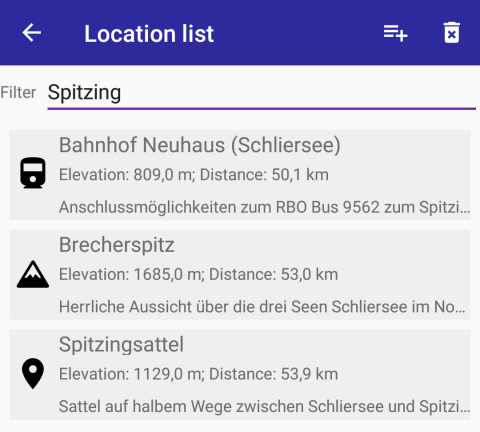
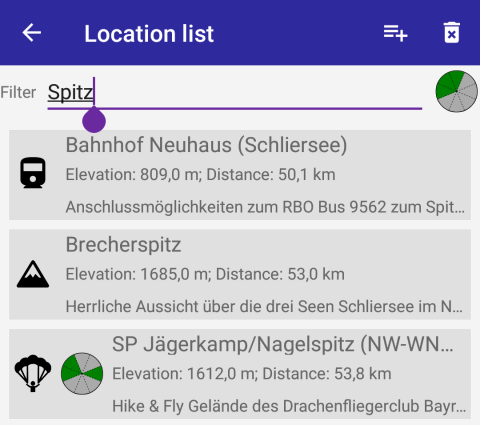
updated manual for version 1.8.0

diff --git a/src/App/Resources/Assets/info/manual.md b/src/App/Resources/Assets/info/manual.md
@@ -9,16 +9,19 @@ Welcome to the manual page for the Where-to-fly app!
 The 3D map lets you see the terrain profile of the world in a map that can
 display different imagery layers (in this case OpenStreetMap). The map is
 shaded according to the sun's current position. The map can be moved around
-using touch controls.
+using touch controls:
 
 ![Map touch controls](images/map-touch-controls.png)
 
 Locations and tracks can be imported and are displayed on the map. Locations
 can be tapped to show more infos about a pin. Additional custom layers can be
 added that can display other geometric objects, such as thermals, national
-park areas, air spaces or labels.
+park areas, air spaces or labels. Here you can see the details of a summit
+location:
 
 ![Location info](images/location-info.png)
+
+Depending on the map element, different option icons are displayed.
 
 ### Title bar icons
 
@@ -28,9 +31,9 @@ your position with other apps.
 
 The ![Find](images/magnify.svg) button shows a dialog to find a specific
 place, e.g. a mountain or town name. The result is shown with an orange pin.
-From the pin info, you can add a new location pin for the find result.
+From the pin info, you can add a new location pin from the find result.
 
-### Other functions
+### Other map functions
 
 A long tap on the map shows the following menu:
 
@@ -44,7 +47,7 @@ A long tap on the map shows the following menu:
 
 ![Flying range parameters](images/flying-range-menu.png)
 
-- Glide ratio: Determines how fast you sink; glide ratio is given in km
+- Glide ratio: Determines how fast you sink; the glide ratio is given in km
   gliding per 1000m sinking.
 
 A half-transparent blue cone appears on the selected point, showing the areas
@@ -58,13 +61,25 @@ currently loaded custom layers.
 
 ![Layers list](images/layers-list.png)
 
-New layers can be imported with the ![Add layers](images/layers-plus.svg)
-button. A file picker is opened to select a file on the device. Allowed file
-types are CZML. The format is a custom JSON based format from the Cesium
-project.
+The layers list always shows the two default layers "Locations" and "Tracks",
+and additionally all loaded layers. Layers can be set invisible with the
+![set invisible](images/eye-off-outline.svg) icon.
 
-The ![Delete all](images/delete-forever.svg) button removes all
-layers.
+New layers can be imported with the ![Add layers](images/layers-plus.svg)
+button. A menu is shown to select which kind of layer to import:
+
+- Import CZML Layer: Lets you import .czml files in the Cesium JSON format
+- Import OpenAir airspaces: Lets you import airspaces in the OpenAir text
+  format.
+- Download from web: Lets you download files to import from the web.
+
+When selecting the first two items, a file picker is opened to select a file
+on the device. Allowed file types are CZML and OpenAir text files. The CZML
+format is a custom JSON based format from the Cesium project.
+
+The ![Delete all](images/delete-forever.svg) button removes all layers
+(except the two default layers "Locations" and "Tracks", which can't be
+removed).
 
 When long-tapping a single layer entry, a context menu appears with the
 following menu entries:
@@ -79,6 +94,14 @@ following menu entries:
 The location list shows all locations. The list can be filtered using the
 entry line. When no location is imported yet, a message is shown. Tapping on
 an entry shows the details of that location (see below).
+
+To the right of the filter entry line is the takeoff directions selection
+icon. Tapping the icon opens a pop-up dialog that lets you select takeoff
+directions that should be used to filter the location list entries. Note that
+the app tries to recognize the start directions from the location title or
+description text.
+
+![Takeoff directions filter](images/takeoff-directions.png)
 
 The ![Add locations](images/playlist-plus.svg) button adds new
 locations to the list. First, a selection dialog is shown:
@@ -125,12 +148,12 @@ The following title bar icons are available:
 
 ### Live waypoints
 
-Some locations can be updated live, e.g. for lve tracking purposes. The
+Some locations can be updated live, e.g. for live tracking purposes. The
 locations are imported by clicking on weblinks that start with
 `where-to-fly://`. The position and other infos of those live waypoints
 are updated periodically while the app is running. The live waypoint data is
 queried from the Where-to-fly background service. Sources for live waypoints
-currently are Garmin inReach devices or Find me Spot tracker.
+currently are Garmin inReach devices or Find me Spot tracker devices.
 
 ## ![Tracks](../icons/map-marker-distance.svg) Tracks
 
@@ -152,10 +175,15 @@ You can edit the track name and determine if the track is a paragliding
 flight. Flight tracks are colored based on climb or sink rates. If it's not a
 flight, you can select a single color for the track line.
 
+![Open track](images/track-open-dialog-flight.png)
+
 In the rare case that the track has no time points (e.g. for KML LineStrings)
 another field "Track point time interval" appears that lets you specify the
 time delta between the track points. This is only used for correctly
 calculating climb and sink rate.
+
+To adjust the offset of the track point heights, adjust the offset in meters,
+by using the "+" and "-" buttons.
 
 After the track was added, a waiting dialog marked "Sampling track points" is
 shown, for flight tracks only. The track is checked if any track point is
@@ -179,12 +207,16 @@ following menu entries:
 
 ![Track details](images/track-details.png)
 
-The track details shows infos about the track, like distance and duration, and
-some calculated statistics values.
+The track details page shows infos about the track, like distance and
+duration, and a height profile. The second tab shows some calculated
+statistics values.
+
+![Track details](images/track-statistics.png)
 
 The following title bar icons are available:
 
 - ![Zoom to](images/magnify-plus-outline.svg) Zooms to the track on the map
+- ![Export](images/export-variant.svg) Exports the track to a .gpx file
 - ![Delete](images/delete.svg) Deletes the track
 
 ### Track colors
@@ -236,6 +268,11 @@ as forecast and current weather websites, or webcam pages. The app contains a
 fixed list of different websites that can be added to the dashboard by tapping
 on the ![Add new...](images/border-none-variant.svg) "Add new..." tile or by
 using the ![Add](images/playlist-plus.svg) button.
+
+The ![Add bookmark](images/bookmark-plus-outline.svg) button lets you add new
+web lins. The following dialog appears to add the link:
+
+![Add Weblink](images/weather-add-weblink.png)
 
 ### Weather browser
 
